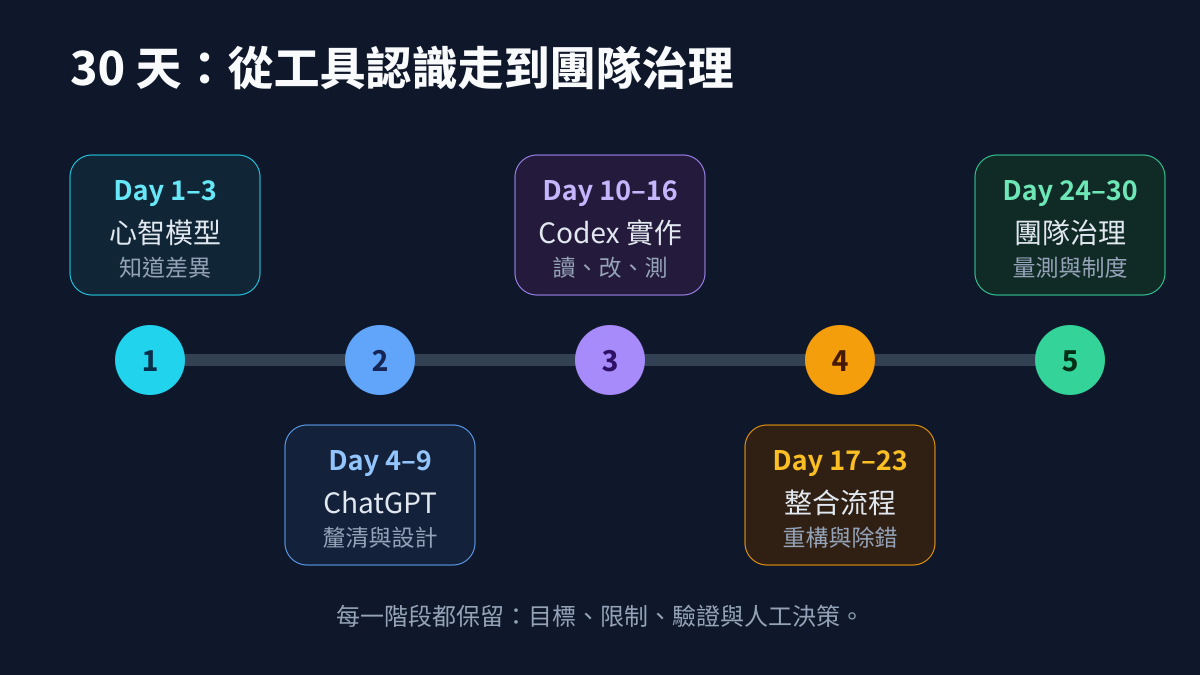
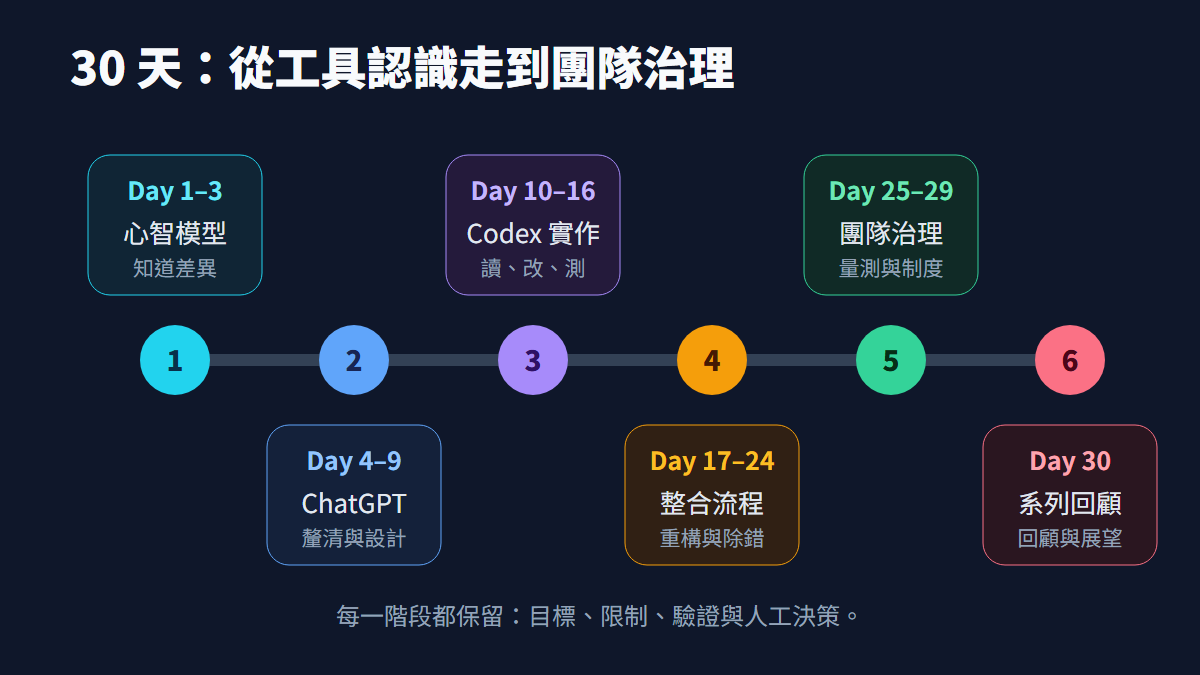
refactor(day01): 論稿

diff --git a/DAY01-系列前言.md b/DAY01-系列前言.md
@@ -2,11 +2,11 @@
 
 ![Day 01 封面：從對話走進開發流程](./%E5%9C%96%E6%AA%94/Day01/day01-01-cover.png)
 
-在軟體開發時常聽到一個鬼故事「XXX 功能好像怪怪的，你可以幫我看一下嗎?」，這時候心裡os:「啥怪怪的我弄很正常啊?」接下來開始要使用第二技能"通靈"來確認怪是個怎樣的怪法，但這往往都需要花費大量的時間和精力
+在軟體開發時常聽到一個鬼故事「XXX 功能好像怪怪的，你可以幫我看一下嗎？」，這時候心裡 OS：「啥怪怪的我弄很正常啊？」接下來開始要使用第二技能「通靈」來確認怪是個怎樣的怪法，但這往往都需要花費大量的時間和精力。
 
 以上的情境在軟體開發中頻繁的遇到，但我們又沒辦法用一套快速且有效率的系統來解決這一類開發上所遇到的溝通問題，這也是作者本人會想寫本系列的動機。
 
-我想討論的不是「Codex 會不會寫程式」或是「ChatGPT和其他模型比較是如何」，而是更實際的問題：**ChatGPT 與 Codex 應該放在開發流程的哪個位置，才能節省時間，又保留人工決策、驗證證據與責任邊界？**
+我想討論的不是「Codex 會不會寫程式」或是「ChatGPT 和其他模型比較是如何」，而是更實際的問題：**ChatGPT 與 Codex 應該放在開發流程的哪個位置，才能節省時間，又保留人工決策、驗證證據與責任邊界？**
 
 ## 我所說的「認真學」，不是背功能表
 
